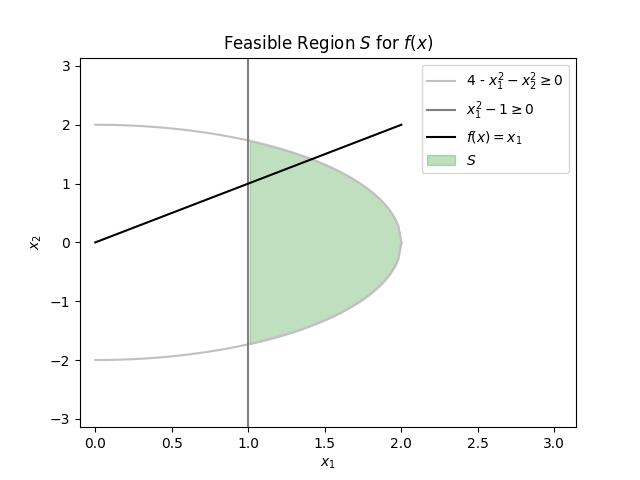
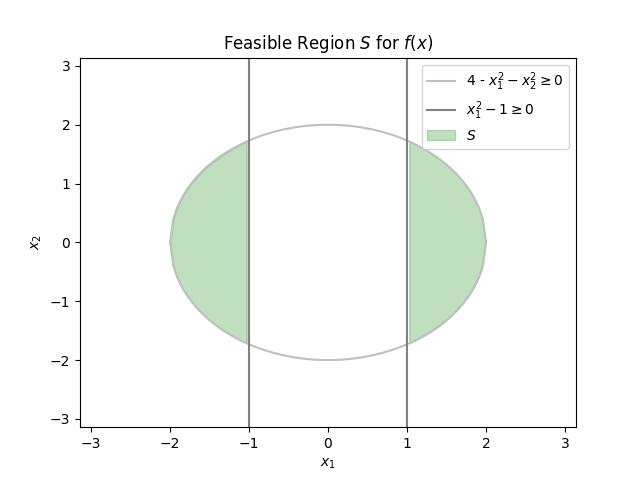
MATH5420: Completed Homework 1.

diff --git a/2023/spring/MATH5420_Optimization/Homework1/problem_6.tex b/2023/spring/MATH5420_Optimization/Homework1/problem_6.tex
@@ -1,15 +1,32 @@
 \textbf{Griva, Nash, Sofer 2.3.5}
 
-Let $f:\mathbb{R}^n \to \mathbb{R}$ be a function. Prove that $f$ is convex and concave if
-and only if $f(x) = c^T x$ for some constant vector $c$.
+Let $f$ be a real-valued function on $\mathbb{R}^n$. Prove that $f$ is convex and concave if and only if 
+$f(x) = c^T x + b$ for some constant vectors $c$ and $b$.
 
 \begin{solution}
-  Suppose first that $f$ is convex and concave, and let $x, y \in \mathbb{R}^n$. 
-  Since $f$ convex over a convex set \footnote{
-    $\mathbb{R}^n$ is convex since it is closed under arbitrary linear combinations.
-  }, the following holds:
 
-  \begin{equation}
+  Suppose first that $f$ is affine, i.e., $f(x) = c^T x + b$ for some constants $b, c \in \mathbb{R}^n$.
+  Then for all $x, y \in \mathbb{R}^n$ and $\alpha \in \mathbb{R}$, we have:
+  
+  \begin{align*}
+    f(\alpha x + (1 - \alpha)y) &= c^T \left( \alpha x + (1 - \alpha)y \right) + b  \\
+                                &= c^T \alpha x + c^T (1 - \alpha)y + b \\
+                                &= c^T \alpha x + c^T (1 - \alpha)y + \alpha b + (1 - \alpha) b \\
+                                &= \alpha (c^T x + b) + (1 - \alpha)(c^T y + b) \\
+                                &= \alpha f(x) + (1 - \alpha)f(y).
+  \end{align*}
+
+  Hence $f(\alpha x + (1 - \alpha)y) \le \alpha f(x) + (1 - \alpha)f(y)$ and 
+  $f(\alpha x + (1 - \alpha)y) \ge \alpha f(x) + (1 - \alpha)f(y)$ and so $f$ is both convex and concave, as desired.
+
+  \vspace{3em}
+
+  Conversely, suppose that $f$ is convex and concave. Let $x, y \in \mathbb{R}^n$. 
+  Since $f$ is convex over a convex set,\footnote{
+    $\mathbb{R}^n$ is convex since it is closed under arbitrary linear combinations.
+  } the following holds:
+
+  \begin{equation} \label{eq:1}
     f(\alpha x + (1 - \alpha)y) \le \alpha f(x) + (1 - \alpha) f(y).
   \end{equation}
 
@@ -25,15 +42,67 @@ and only if $f(x) = c^T x$ for some constant vector $c$.
     f(\alpha x + (1 - \alpha)y) \ge \alpha f(x) + (1 - \alpha) f(y)
   $$
 
-  which combined with (1) gives equality:
+  which combined with (\ref{eq:1}) gives equality:
   
   $$
     f(\alpha x + (1 - \alpha)y) = \alpha f(x) + (1 - \alpha) f(y)
   $$
 
   We now show that this equality implies that $f$ is linear (and hence that $f = c^T x$ for some
-  constant $c \in \mathbb{R}^n$).
+  constant $c \in \mathbb{R}^n$). To do so, we begin by defining $g(x) = f(x) - f(0)$ and show that
+  $g(x)$ is also convex and concave:
 
-  TODO.
+  \begin{align*}
+    g(\alpha x + (1 - \alpha) y) &= f(\alpha x + (1 - \alpha) y) - f(0) \\
+                                 &= f(\alpha x + (1 - \alpha) y) - f(\alpha \cdot 0 - (1 - \alpha) \cdot 0) \\
+                                 &= \alpha f(x) + (1 - \alpha) f(y) - \alpha f(0) - (1 - \alpha) f(0) \\
+                                 &= \alpha \left(f(x) - f(0) \right) + (1 - \alpha) \left(f(y) f(0) \right) \\
+                                 &= \alpha g(x) + (1 - \alpha) g(y).
+  \end{align*}
+
+  We note that $g(0) = f(0) - f(0) = 0$, and so for $\alpha \in [0, 1]$ we have:
+
+  \begin{align*}
+    g(\alpha x) &= f(\alpha x) - f(0) \\
+                &= f(\alpha x + (1 - \alpha) \cdot 0) - f(0) \\
+                &= \alpha f(x) + (1 - \alpha) f(0) - f(0) \\
+                &= \alpha \left(f(x) - f(0)\right) \\
+                &= \alpha g(x).
+  \end{align*}
+
+  When $\alpha > 1$, we define $\beta = \alpha^{-1} < 1$ and apply the concavity and convexity of $g$
+  to find:
+
+  \begin{align*}
+    g(x) &= g(\beta^{-1} \beta x + (1 - \beta) \cdot 0) \\
+         &= \beta g(\beta^{-1} x) + (1 - \beta) g(0) \\
+         &= \alpha^{-1} g(\alpha x) \\
+  \end{align*}
+
+  and hence $\alpha g(x) = g(\alpha x)$. With this result in hand, we show that $g$ is additive (by letting 
+  $\alpha = \frac{1}{2}$ and utilizing the convexity and concavity of $g$):
+
+  \begin{align*}
+    g(x) + g(y) &= 2 \left[ \frac{1}{2} g(x) + \frac{1}{2} g(y) \right] \\
+                &= 2 \left[ \frac{1}{2} g(x) + \left(1 - \frac{1}{2}\right) g(y) \right] \\
+                &= 2g\left( \frac{1}{2}x + \left(1 - \frac{1}{2}\right)y \right) \\
+                &= g\left(2 \left( \frac{1}{2}x + \frac{1}{2}y \right) \right) \\
+                &= g(x + y)
+  \end{align*}
+
+  Lastly, we show that $g(-x) = g(x)$, which shows that $g(\alpha x) = \alpha g(x)$ for \textit{all} $\alpha \in 
+  \mathbb{R}$:
+
+  \begin{align*}
+    g(-x) &= g(x - 2x) \\
+          &= g(x) + g(-2x) \\
+          &= g(x) + 2g(-x) \\
+          &= \left(g(x) + g(-x)\right) + g(-x)
+  \end{align*}
+
+  and so $g(x) + g(-x) = 0$ and $g(-x) = -g(x)$, as desired. Our function $g$ is therefore linear and so takes the form 
+  $g(x) = c^T x$ for some constant $c \in \mathbb{R}^n$. We let $b = f(0)$, and observe by definition of $g$ that 
+  $f(x) = c^T x + b$, as desired.
+  
   \ \\
 \end{solution}

diff --git a/2023/spring/MATH5420_Optimization/Homework1/problem_10.tex b/2023/spring/MATH5420_Optimization/Homework1/problem_10.tex
@@ -7,6 +7,28 @@ sufficiently small $\epsilon > 0$.
 $f(x_k + \epsilon p) - f(x_k)$.
 
 \begin{solution}
-  TODO.
+  Let $K$ be a compact neighborhood about $x_k$. Since $f$ is twice continuously
+  differentiable\footnote{
+    Our hint implies that we may expand $f(x_k)$ in Taylor series, and so we therefore 
+    assume that $f$ is at least twice continuously differentiable at $x_k$.
+  }, $\nabla^2 f$ is continuous and hence $\nabla^2 f(K)$ is compact and therefore bounded
+  by the Heine-Borel theorem. Let $c$ be an upper bound for $|p^T \nabla^2 f(x) p|$.
+  Let $p$ be fixed and $\epsilon > 0$ such that $x + \epsilon p \in K$. We expand 
+  $f(x_k + \epsilon p)$ about $x_k$ and subtract $f(x_k)$ to find:
+
+  \begin{align*}
+    f(x_k + \epsilon p) - f(x_k) &= \epsilon p^T \nabla f(x_k) + \frac{\epsilon^2}{2} p^T \nabla^2 f(\xi) p \\
+                                 &= \epsilon \left(p^T \nabla f(x_k) + \frac{\epsilon}{2} p^T \nabla^2 f(\xi) p \right) \\
+  \end{align*}
+
+  for some $\xi \in (x_k, x_k + \epsilon p) \subset K$. Let $\nu = p^T \nabla f(x_k) < 0$.
+  For $\epsilon = \frac{\nu}{c}$, we have:
+
+  $$
+  \epsilon \left(\frac{3 \nu}{2} \right) \le f(x_k + \epsilon p) - f(x_k) \le \epsilon \left(\frac{\nu}{2} \right) < 0
+  $$
+
+  and so $f(x_k + \epsilon p) < f(x_k)$, as desired.
+
   \ \\
 \end{solution}

diff --git a/2023/spring/MATH5420_Optimization/Homework1/problem_11.tex b/2023/spring/MATH5420_Optimization/Homework1/problem_11.tex
@@ -14,6 +14,40 @@ for all $x, y \in S$.
 
 
 \begin{solution}
-  TODO.
+  Let $\nabla^2 f(x)$ be positive definite for all $x$ in the convex set $S$. For the sake
+  of contradiction, suppose that $f$ is not convex on $S$. Then there exist some $x, y \in S$
+  such that $f(y) < f(x) + \nabla f(x)^T (y - x)$ and so 
+ 
+  \begin{equation}\label{eq:2}
+    f(y) - f(x) - \nabla f(x)^T (y - x) < 0
+  \end{equation}
+  
+  Because $f$ has continuous second derivatives,
+  we may apply Taylor's Theorem by expanding $f(y)$ about $x$ to find
+
+  $$
+    f(y) = f(x) + \nabla f(x)^T (y - x) + \frac{1}{2} (y - x)^T \nabla^2 f\big(x + \alpha(y - x)\big) (y - x)
+  $$
+
+  and hence 
+
+  \begin{equation} \label{eq:3}
+    f(y) - f(x) - \nabla f(x)^T (y - x) = \frac{1}{2} (y - x)^T \nabla^2 f\big(x + \alpha(y - x)\big) (y - x)
+  \end{equation}
+
+  for some $\alpha \in (0, 1)$. In particular, we see
+
+  $$
+  x + \alpha (y - x) = x + \alpha y - \alpha x = \alpha y + (1 - \alpha) x.
+  $$
+
+  and so $x + \alpha(y - x) \in S$. Because $\nabla^2 f(x)$ is positive semidefinite, (\ref{eq:3})
+  becomes
+  
+  $$
+    f(y) - f(x) - \nabla f(x)^T (y - x) = \frac{1}{2} (y - x)^T \nabla^2 f\big(x + \alpha(y - x)\big) (y - x) \ge 0
+  $$
+
+  which combined with ($\ref{eq:2}$) yields the desired contradiction.
   \ \\
 \end{solution}

diff --git a/2023/spring/MATH5420_Optimization/Homework1/problem_2.tex b/2023/spring/MATH5420_Optimization/Homework1/problem_2.tex
@@ -15,13 +15,12 @@ Graph the feasible set and identify any local or global minimizers.
 
   \begin{figure}[h]
     \centering
-    \includegraphics[width=\textwidth]{problem_2.jpg}
+    \includegraphics[width=0.9\textwidth]{problem_2.jpg}
     \caption{Feasible region $S$ (green)}
   \end{figure}
 
-  From the above plot, we see that no global minima of the objective function exist in the feasible region $S$.\footnote{
-    In fact, since the domain of $f$ is all of $\mathbb{R}$ and $f$ is strictly decreasing, no global minimum of $f$ exists at all.
-  } 
-  A local minimum does exist at $x = (1, 1)$ which takes the value $f(x) = x_1 = 1$.
+  Observe that $f(x) = x_1$ is minimized when $x_1$ attains its minimum value within the feasible region; from the above
+  plot, we see that this occurs at $x = (-2, 0)$, which yields a local minimum of $f(x) = -2$. Moreover, $f(x)$ is not 
+  bounded below (since it is linear), and so no global minimum of $f$ exists.
   \ \\
 \end{solution}

diff --git a/2023/spring/MATH5420_Optimization/Homework1/problem_2.py b/2023/spring/MATH5420_Optimization/Homework1/problem_2.py
@@ -2,15 +2,13 @@ import os
 import numpy as np
 import matplotlib.pyplot as plt
 
-x1 = np.linspace(0, 2, 100)
+x1 = np.linspace(-2, 2, 100)
 
 fig, ax = plt.subplots()
 
 def g1(x):
     return np.sqrt(4 - np.power(x, 2))
 
-def f(x):
-    return x
 
 # g1(x)
 #
@@ -20,12 +18,9 @@ plt.plot(x1, -1 * g1(x1), color='silver')
 # g2(x)
 #
 plt.axvline(1, color='gray', label=r'$x_1^2 - 1 \geq 0$')
+plt.axvline(-1, color='gray')
 
-# f(x)
-#
-plt.plot(x1, f(x1), color='black', label=r'$f(x) = x_1$')
-
-plt.xlim((-0.1, np.pi))
+plt.xlim((-np.pi, np.pi))
 plt.ylim((-np.pi, np.pi))
 plt.xlabel(r'$x_1$')
 plt.ylabel(r'$x_2$')
@@ -41,7 +36,15 @@ plt.fill_between(
     alpha=0.25,
     label=r'$S$',
 )
+plt.fill_between(
+    x1,
+    g1(x1),
+    -g1(x1),
+    where=x1 <= -1,
+    color='green',
+    alpha=0.25,
+)
 
-plt.legend()
+plt.legend(loc='upper right')
 plt.title(r'Feasible Region $S$ for $f(x)$')
 plt.savefig('{}.jpg'.format(os.path.splitext(os.path.basename(__file__))[0]))

diff --git a/2023/spring/MATH5420_Optimization/Homework1/problem_12.tex b/2023/spring/MATH5420_Optimization/Homework1/problem_12.tex
@@ -6,10 +6,36 @@ answer depend on the value of $x$?
 \begin{solution}
   Recall that for a linear function $f(x) = c^Tx$, $p_k$ is a descent direction if
 
-  $$
+  \begin{equation}\label{eq:4}
     c^T p_k < 0.
+  \end{equation}
+
+  Observe that we may write $f(x)$ as follows:
+
+  $$
+  f(x) = c^T x
+  $$
+  
+  where
+  
+  $$
+  c = \begin{pmatrix}
+     1 \\
+    -2 \\
+     3
+  \end{pmatrix}
+  \text{ and }
+  x = \begin{pmatrix}
+    x_1 \\
+    x_2 \\
+    x_3
+  \end{pmatrix}
   $$
 
-  TODO.
+  and hence $f$ is linear. By (\ref{eq:4}), the descent directions of $f$ 
+  are precisely those $p_k$ for which $c^T p_k < 0$ or, in other words, when 
+  $p_1 - 2p_2 + 3p_3 < 0$ where $p_i$ are the components of $p$. We note 
+  further that neither $c$ nor $p_k$ depend on $x$, and so this holds  
+  irrespective of the value of $x$.
   \ \\
 \end{solution}

diff --git a/2023/spring/MATH5420_Optimization/Homework1/problem_7.tex b/2023/spring/MATH5420_Optimization/Homework1/problem_7.tex
@@ -32,7 +32,6 @@ is convex, concave, both, or neither for $x \in \mathbb{R}^2$.
   } given by $\Lambda = \{2.75, 11.24 \}$; since all eigenvalues are positive, 
   the Hessian matrix is positive definite and $f$ is therefore convex\footnote{
     See Griva, Nash, Sofer 2.6.8
-  } and, since
-  $f$ cannot be both convex and concave, $f$ is not concave.
+  }. Furthermore, since $f$ cannot be both convex and concave, $f$ is not concave.
   \ \\
 \end{solution}
